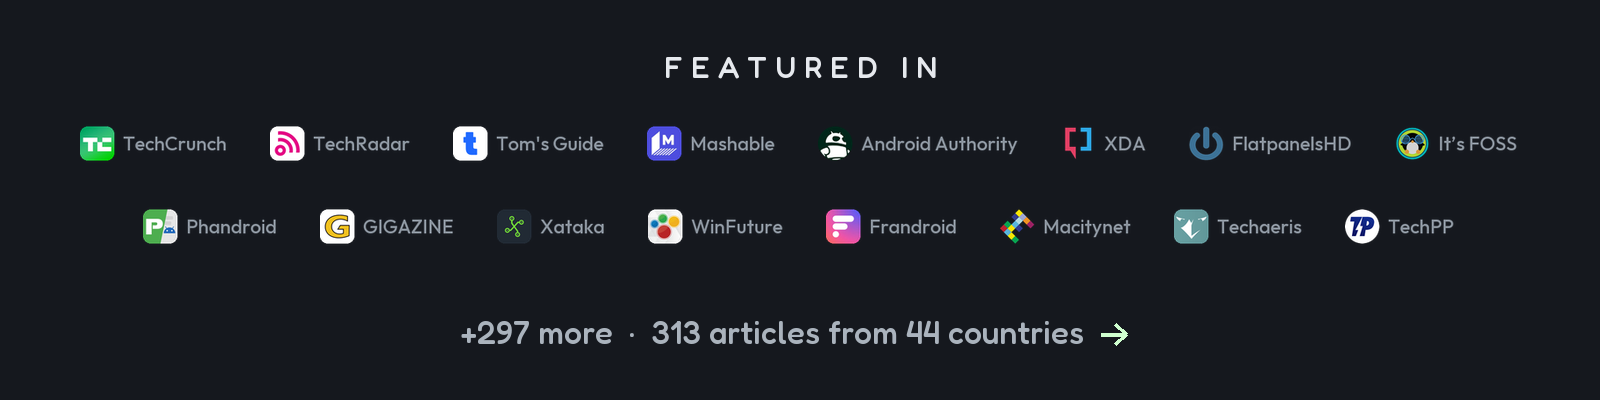
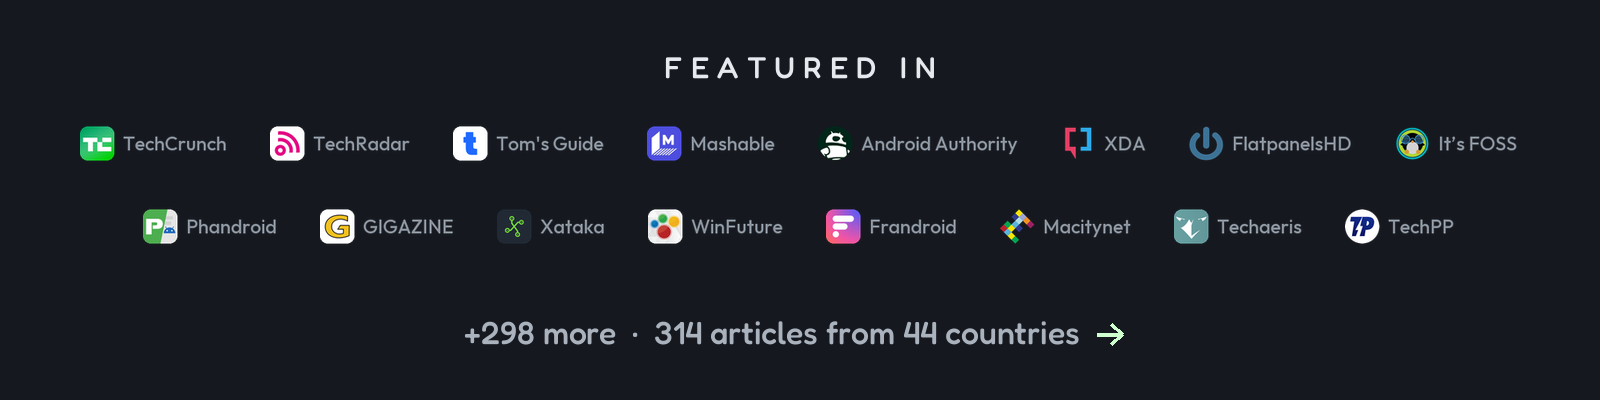
Press: Quickfever's Antigravity guide, 314 articles from 44 countries (#2375)
#2375 is a Quickfever guide published 28 October that opens and is about this project.
The reporter's own tag is "Online (newsletters, blogs, AI news)", where the other blogs
sit, so the row goes there. Adding one row means moving the five numbers press.md step 2
names: the intro's total (313 -> 314) and its online count (38 -> 39), the index line,
both README card alt texts ("+297 more: 313 articles" -> "+298 more: 314 articles", and
"nog 297 media: 313 artikelen" -> "nog 298 media: 314 artikelen"), and MORE in
tools/readme_featured.py. docs/featured.png and docs/card.jpg are redrawn from those
sources with the variable Fredoka the recipe names, so the card reads 314 too.

The 265 articles from outlets in 44 countries, the 10 Latin America rows and the Dutch
page's four stats are unchanged. Suite on the branch: 2129 tests OK (13 skipped) with
python3, 2132 OK with tools/venv/bin/python; gen_tables --check exit 0. No TV: a press
list and the pictures drawn from it.

Changed region(s): [[0.2812, 0.78, 0.7188, 0.87], [0.4375, 0.15, 0.5938, 0.21]]

diff --git a/tools/readme_featured.py b/tools/readme_featured.py
@@ -63,7 +63,7 @@ if OUT_PROBLEM:
 
 LOGOS = ["techcrunch", "techradar", "tomsguide", "mashable", "androidauthority", "xda", "flatpanelshd", "itsfoss",
          "phandroid", "gigazine", "xataka", "winfuture", "frandroid", "macitynet", "techaeris", "techpp"]
-MORE = "+297 more  ·  313 articles from 44 countries"
+MORE = "+298 more  ·  314 articles from 44 countries"
 
 
 def logo_problem():

diff --git a/docs/PRESS.md b/docs/PRESS.md
@@ -1,10 +1,10 @@
 # CleanYourTV in the press
 
-Every article about CleanYourTV (called tv-vibehack until 19 October 2026) that we could open and check: **313 articles**, 265 of them from outlets in 44 countries, 10 from Spanish-language sites in Latin America and 38 from newsletters, blogs and AI news sites. Headlines are in the language they were published in. Syndicated copies and auto-generated listings are left out. [147 videos](#videos) follow the articles.
+Every article about CleanYourTV (called tv-vibehack until 19 October 2026) that we could open and check: **314 articles**, 265 of them from outlets in 44 countries, 10 from Spanish-language sites in Latin America and 39 from newsletters, blogs and AI news sites. Headlines are in the language they were published in. Syndicated copies and auto-generated listings are left out. [147 videos](#videos) follow the articles.
 
 Wrote about it and not here? Open an issue or a pull request with the link.
 
-[United States](#united-states)&nbsp;24 · [United Kingdom](#united-kingdom)&nbsp;5 · [India](#india)&nbsp;5 · [Denmark](#denmark)&nbsp;1 · [Japan](#japan)&nbsp;4 · [Bangladesh](#bangladesh)&nbsp;2 · [United Arab Emirates](#united-arab-emirates)&nbsp;1 · [France](#france)&nbsp;20 · [Germany](#germany)&nbsp;8 · [Spain](#spain)&nbsp;9 · [Italy](#italy)&nbsp;17 · [Norway](#norway)&nbsp;1 · [Portugal](#portugal)&nbsp;5 · [Czechia](#czechia)&nbsp;4 · [Ukraine](#ukraine)&nbsp;4 · [Greece](#greece)&nbsp;6 · [Egypt](#egypt)&nbsp;5 · [Brazil](#brazil)&nbsp;17 · [Latin America (Spanish-language)](#latin-america-spanish-language)&nbsp;10 · [China](#china)&nbsp;31 · [Taiwan](#taiwan)&nbsp;8 · [Indonesia](#indonesia)&nbsp;18 · [Thailand](#thailand)&nbsp;3 · [Vietnam](#vietnam)&nbsp;9 · [Netherlands](#netherlands)&nbsp;4 · [Poland](#poland)&nbsp;8 · [Russia](#russia)&nbsp;13 · [Belarus](#belarus)&nbsp;2 · [Turkey](#turkey)&nbsp;4 · [Jordan](#jordan)&nbsp;1 · [South Korea](#south-korea)&nbsp;4 · [Australia](#australia)&nbsp;2 · [Pakistan](#pakistan)&nbsp;1 · [Hungary](#hungary)&nbsp;2 · [Saudi Arabia](#saudi-arabia)&nbsp;1 · [Romania](#romania)&nbsp;3 · [Sweden](#sweden)&nbsp;2 · [Hong Kong](#hong-kong)&nbsp;2 · [Bulgaria](#bulgaria)&nbsp;2 · [Slovakia](#slovakia)&nbsp;1 · [Belgium](#belgium)&nbsp;1 · [Kenya](#kenya)&nbsp;1 · [Israel](#israel)&nbsp;2 · [Finland](#finland)&nbsp;1 · [Serbia](#serbia)&nbsp;1 · [Online (newsletters, blogs, AI news)](#online-newsletters-blogs-ai-news)&nbsp;38
+[United States](#united-states)&nbsp;24 · [United Kingdom](#united-kingdom)&nbsp;5 · [India](#india)&nbsp;5 · [Denmark](#denmark)&nbsp;1 · [Japan](#japan)&nbsp;4 · [Bangladesh](#bangladesh)&nbsp;2 · [United Arab Emirates](#united-arab-emirates)&nbsp;1 · [France](#france)&nbsp;20 · [Germany](#germany)&nbsp;8 · [Spain](#spain)&nbsp;9 · [Italy](#italy)&nbsp;17 · [Norway](#norway)&nbsp;1 · [Portugal](#portugal)&nbsp;5 · [Czechia](#czechia)&nbsp;4 · [Ukraine](#ukraine)&nbsp;4 · [Greece](#greece)&nbsp;6 · [Egypt](#egypt)&nbsp;5 · [Brazil](#brazil)&nbsp;17 · [Latin America (Spanish-language)](#latin-america-spanish-language)&nbsp;10 · [China](#china)&nbsp;31 · [Taiwan](#taiwan)&nbsp;8 · [Indonesia](#indonesia)&nbsp;18 · [Thailand](#thailand)&nbsp;3 · [Vietnam](#vietnam)&nbsp;9 · [Netherlands](#netherlands)&nbsp;4 · [Poland](#poland)&nbsp;8 · [Russia](#russia)&nbsp;13 · [Belarus](#belarus)&nbsp;2 · [Turkey](#turkey)&nbsp;4 · [Jordan](#jordan)&nbsp;1 · [South Korea](#south-korea)&nbsp;4 · [Australia](#australia)&nbsp;2 · [Pakistan](#pakistan)&nbsp;1 · [Hungary](#hungary)&nbsp;2 · [Saudi Arabia](#saudi-arabia)&nbsp;1 · [Romania](#romania)&nbsp;3 · [Sweden](#sweden)&nbsp;2 · [Hong Kong](#hong-kong)&nbsp;2 · [Bulgaria](#bulgaria)&nbsp;2 · [Slovakia](#slovakia)&nbsp;1 · [Belgium](#belgium)&nbsp;1 · [Kenya](#kenya)&nbsp;1 · [Israel](#israel)&nbsp;2 · [Finland](#finland)&nbsp;1 · [Serbia](#serbia)&nbsp;1 · [Online (newsletters, blogs, AI news)](#online-newsletters-blogs-ai-news)&nbsp;39
 
 ## United States
 
@@ -548,6 +548,7 @@ Wrote about it and not here? Open an issue or a pull request with the link.
 | PaidFreeDroid | [CleanYourTV Guide: Remove Ads From Android TV in 5 Minutes](https://paidfreedroid.com/2026/10/cleanyourtv-guide-remove-android-tv-ads-bloatware.html) | 24&nbsp;Oct |
 | daily.dev | [People are using AI to make their smart TVs dumb again](https://daily.dev/posts/people-are-using-ai-to-make-their-smart-tvs-dumb-again-w4vznkz9w) | 19&nbsp;Oct |
 | Archyde | [Smart TV Owners Use AI Coding Assistants to Remove Bloatware](https://www.archyde.com/smart-tv-owners-use-ai-coding-assistants-to-remove-bloatware/) | 20&nbsp;Oct |
+| Quickfever | [How to Debloat Your Android TV Using Antigravity (CleanYourTV Guide)](https://quickfever.com/how-to-debloat-your-android-tv-using-antigravity) | 28&nbsp;Oct |
 
 ## Videos
 

diff --git a/README.nl.md b/README.nl.md
@@ -25,7 +25,7 @@
 </p>
 
 <p align="center">
-  <a href="docs/PRESS.md"><img src="docs/card.jpg" alt="316 tv-modellen · 89 merken · 28 talen · launcher van 523 KB. Genoemd in TechCrunch, TechRadar, Tom's Guide, Mashable, Android Authority, XDA, FlatpanelsHD, It's FOSS, Phandroid, GIGAZINE, Xataka, WinFuture, Frandroid, Macitynet, Techaeris, TechPP en nog 297 media: 313 artikelen uit 44 landen. Voorheen: het standaard Google TV-startscherm met een gesponsorde advertentie. Daarna: de Clean Your TV-launcher." width="800"></a>
+  <a href="docs/PRESS.md"><img src="docs/card.jpg" alt="316 tv-modellen · 89 merken · 28 talen · launcher van 523 KB. Genoemd in TechCrunch, TechRadar, Tom's Guide, Mashable, Android Authority, XDA, FlatpanelsHD, It's FOSS, Phandroid, GIGAZINE, Xataka, WinFuture, Frandroid, Macitynet, Techaeris, TechPP en nog 298 media: 314 artikelen uit 44 landen. Voorheen: het standaard Google TV-startscherm met een gesponsorde advertentie. Daarna: de Clean Your TV-launcher." width="800"></a>
 </p>
 
 **De virale tweet:** [x.com/gathint/status/2111379569030939102](https://x.com/gathint/status/2111379569030939102)

diff --git a/README.md b/README.md
@@ -20,7 +20,7 @@
 </p>
 
 <p align="center">
-  <a href="docs/PRESS.md"><img src="docs/card.jpg" alt="345 TV models · 93 brands · 29 languages · 532 KB launcher. Featured in TechCrunch, TechRadar, Tom's Guide, Mashable, Android Authority, XDA, FlatpanelsHD, It's FOSS, Phandroid, GIGAZINE, Xataka, WinFuture, Frandroid, Macitynet, Techaeris, TechPP and 297 more: 313 articles from 44 countries. Before: stock Google TV home with a sponsored ad. After: the Clean Your TV launcher." width="800"></a>
+  <a href="docs/PRESS.md"><img src="docs/card.jpg" alt="345 TV models · 93 brands · 29 languages · 532 KB launcher. Featured in TechCrunch, TechRadar, Tom's Guide, Mashable, Android Authority, XDA, FlatpanelsHD, It's FOSS, Phandroid, GIGAZINE, Xataka, WinFuture, Frandroid, Macitynet, Techaeris, TechPP and 298 more: 314 articles from 44 countries. Before: stock Google TV home with a sponsored ad. After: the Clean Your TV launcher." width="800"></a>
 </p>
 
 ## Start here
